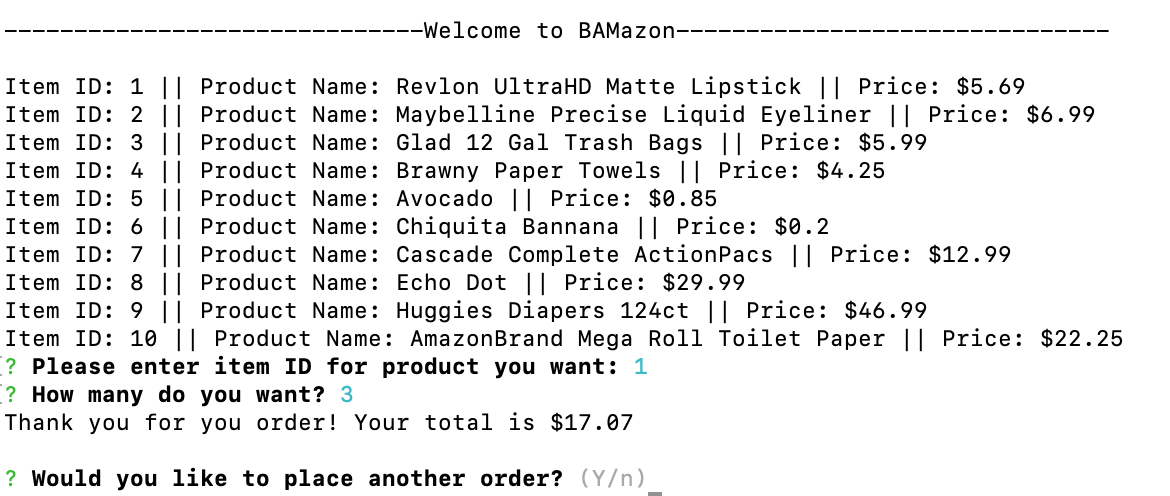
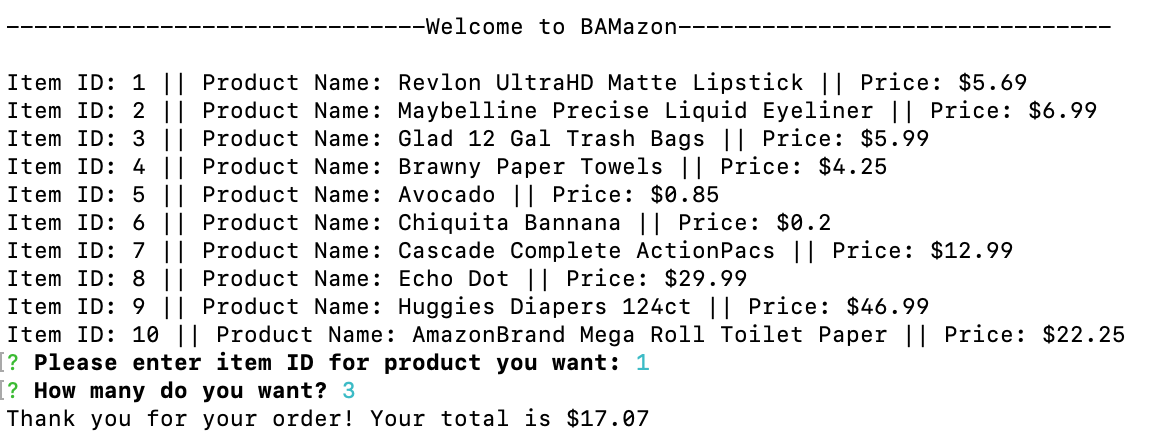
fixed spelling error

Changed region(s): [[0.0, 0.1464, 0.9654, 1.0], [0.0, 0.0293, 0.9654, 0.0878], [0.9031, 0.732, 0.9965, 0.7905]]

diff --git a/bamazonCustomer.js b/bamazonCustomer.js
@@ -73,7 +73,7 @@ function userRequest(){
 			} else {
 				amountDue = res[0].price * answer.quantity;
 				currentDepartment = res [0]. department_name;
-				console.log("Thank you for you order! Your total is $" + amountDue.toFixed(2));
+				console.log("Thank you for your order! Your total is $" + amountDue.toFixed(2));
 				console.log('')
 				//update product sales
 				connection.query('UPDATE products SET ? WHERE ?',[{
